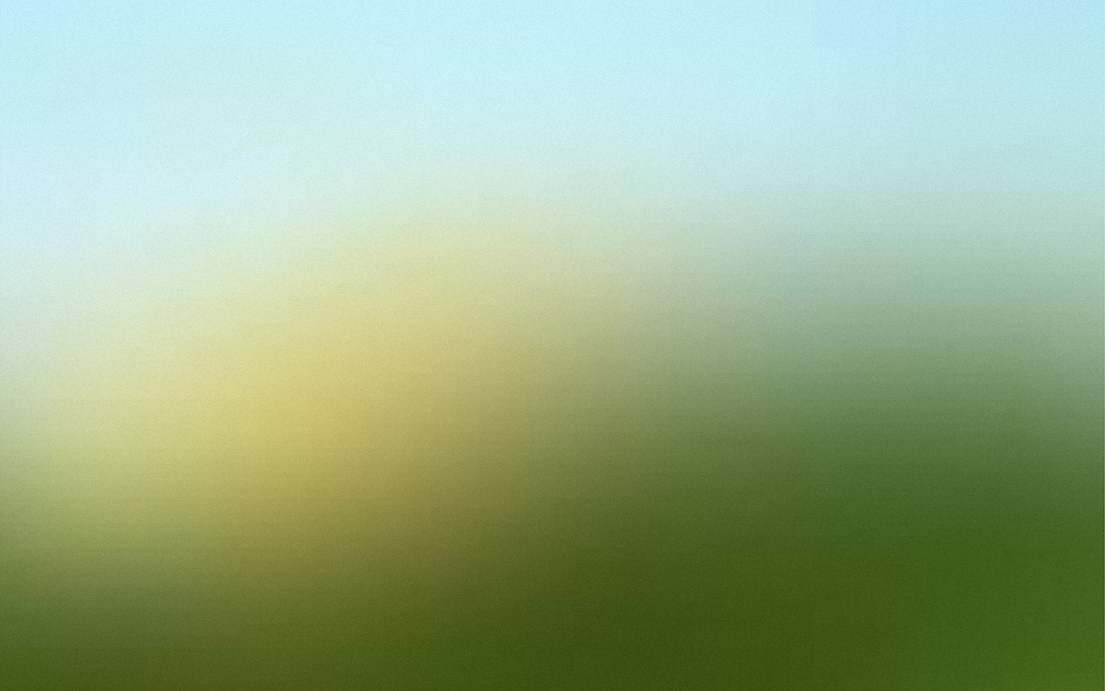
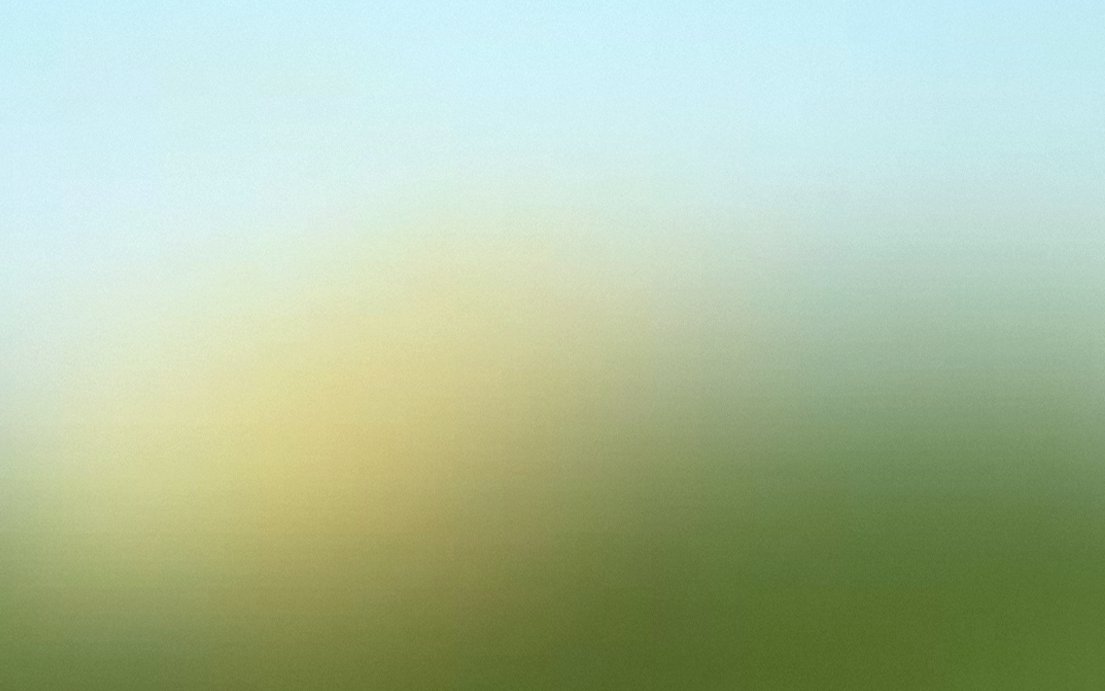
bg

diff --git a/styles.css b/styles.css
@@ -558,7 +558,7 @@ padding-bottom: 1vw;
   top: 50%; /* Align the top edge of the image to the vertical center */
   left: 50%; /* Align the left edge of the image to the horizontal center */
   transform: translate(-50%, -50%); /* Adjust the image position to center it precisely */
-  max-width: 90%; /* Set the maximum width of the second image to 80% of the container */
+  max-width: 85%; /* Set the maximum width of the second image to 80% of the container */
 }
 
 .copyright{
